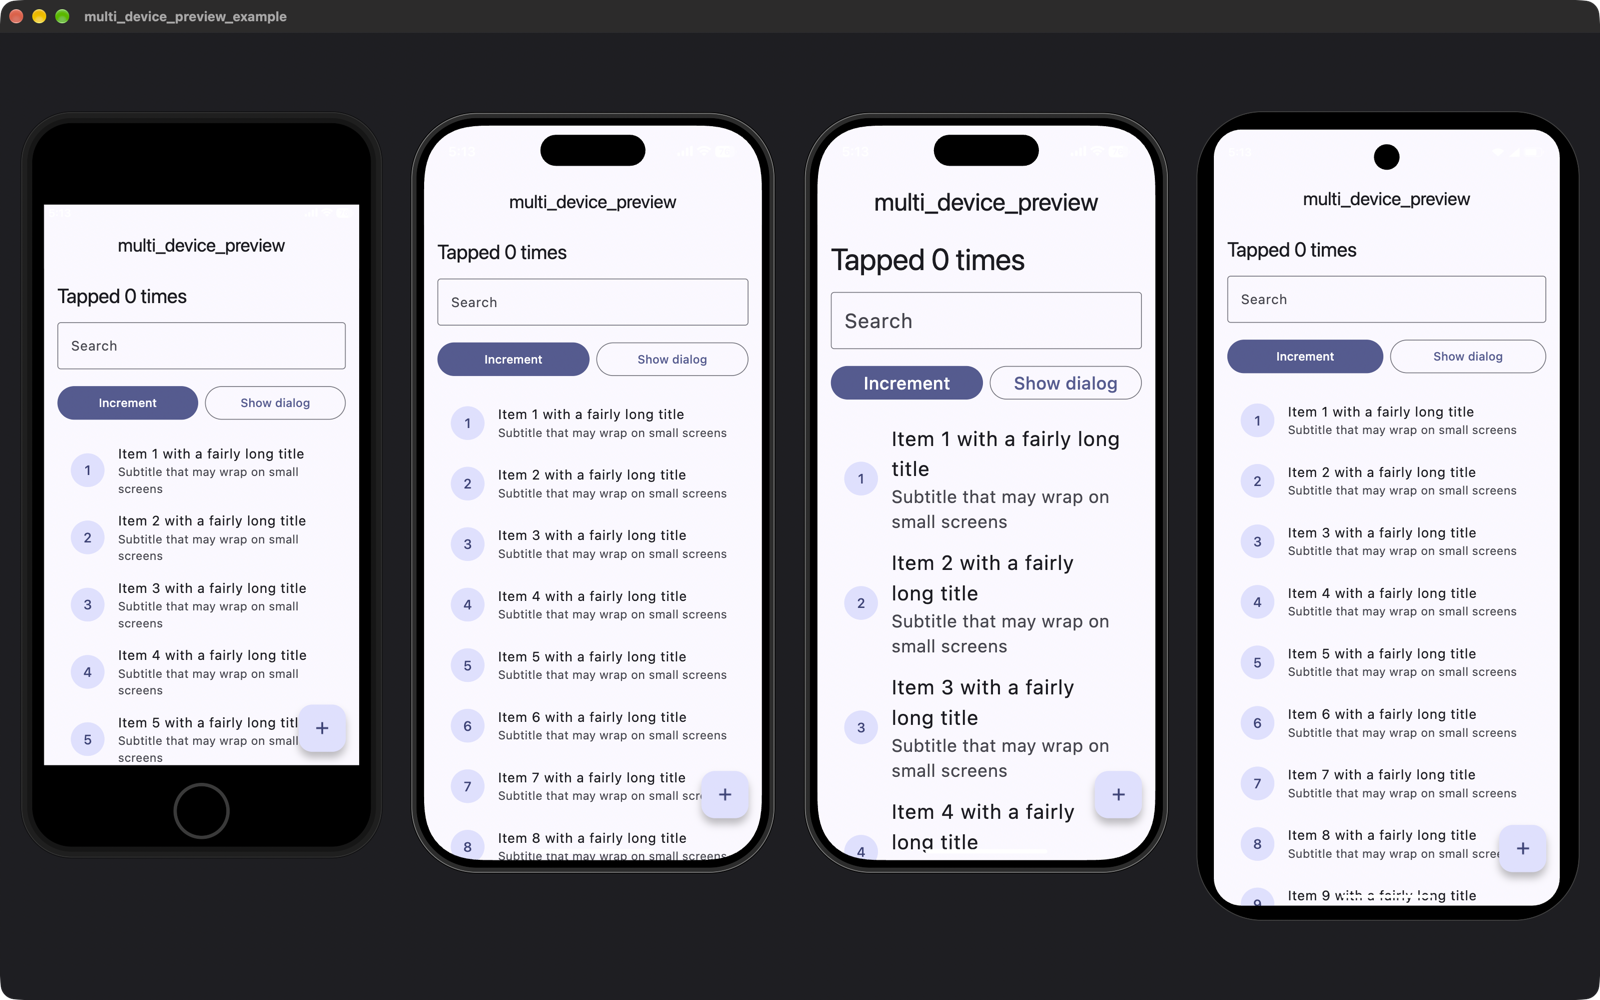
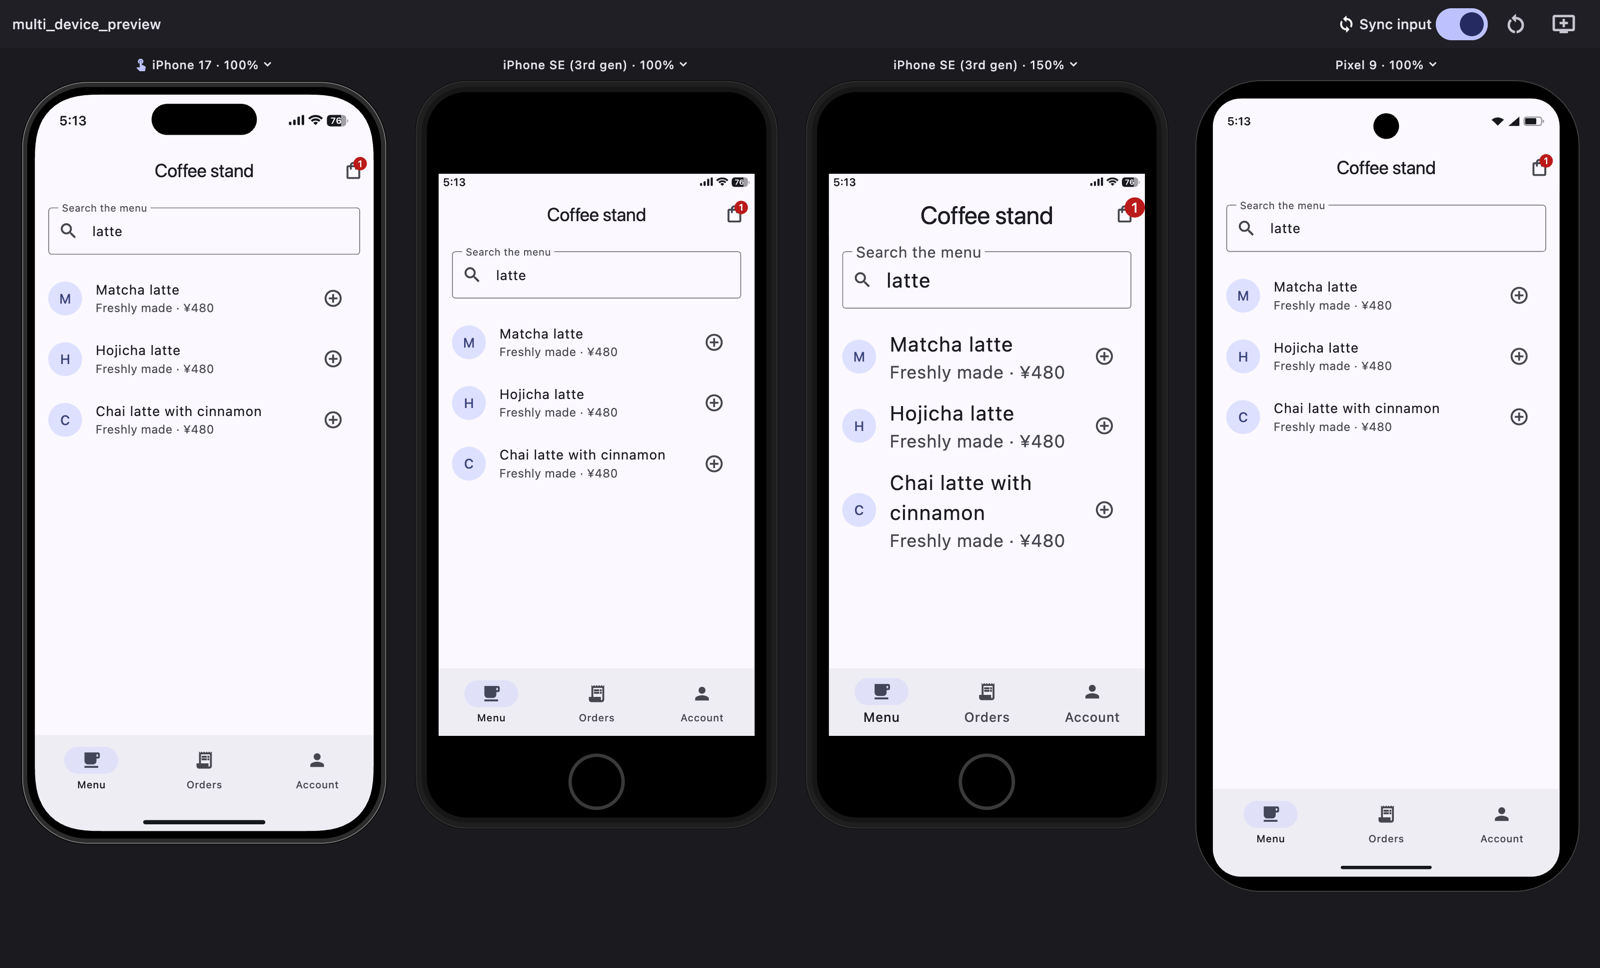
feat: list phones first in the device sheet; refresh screenshot; smoke test captures the tool UI

diff --git a/packages/multi_device_preview/lib/src/chrome.dart b/packages/multi_device_preview/lib/src/chrome.dart
@@ -398,7 +398,16 @@ class _DeviceSheetState extends State<_DeviceSheet> {
   @override
   Widget build(BuildContext context) {
     final theme = Theme.of(context);
-    final groups = <DeviceKind, List<DevicePreset>>{};
+    // Phones first: they are what most apps are checked on.
+    final groups = <DeviceKind, List<DevicePreset>>{
+      for (final kind in const [
+        DeviceKind.phone,
+        DeviceKind.foldable,
+        DeviceKind.tablet,
+        DeviceKind.desktop,
+      ])
+        kind: [],
+    };
     for (final preset in DevicePresets.all) {
       groups.putIfAbsent(preset.kind, () => []).add(preset);
     }
@@ -456,36 +465,36 @@ class _DeviceSheetState extends State<_DeviceSheet> {
             shrinkWrap: true,
             padding: const EdgeInsets.only(bottom: 16),
             children: [
-              for (final MapEntry(key: kind, value: presets)
-                  in groups.entries) ...[
-                Padding(
-                  padding: const EdgeInsets.fromLTRB(20, 12, 20, 4),
-                  child: Text(
-                    _kindLabel(kind),
-                    style: theme.textTheme.labelLarge?.copyWith(
-                      color: theme.colorScheme.primary,
+              for (final MapEntry(key: kind, value: presets) in groups.entries)
+                if (presets.isNotEmpty) ...[
+                  Padding(
+                    padding: const EdgeInsets.fromLTRB(20, 12, 20, 4),
+                    child: Text(
+                      _kindLabel(kind),
+                      style: theme.textTheme.labelLarge?.copyWith(
+                        color: theme.colorScheme.primary,
+                      ),
                     ),
                   ),
-                ),
-                for (final preset in presets)
-                  ListTile(
-                    key: ChromeKeys.preset(preset.id),
-                    dense: true,
-                    selected: preset.id == selected,
-                    leading: Icon(
-                      preset.id == selected
-                          ? Icons.radio_button_checked
-                          : Icons.radio_button_unchecked,
+                  for (final preset in presets)
+                    ListTile(
+                      key: ChromeKeys.preset(preset.id),
+                      dense: true,
+                      selected: preset.id == selected,
+                      leading: Icon(
+                        preset.id == selected
+                            ? Icons.radio_button_checked
+                            : Icons.radio_button_unchecked,
+                      ),
+                      title: Text(preset.name),
+                      subtitle: Text(
+                        '${preset.portraitSize.width.round()} × '
+                        '${preset.portraitSize.height.round()}'
+                        '${preset.brand == null ? '' : ' · ${preset.brand}'}',
+                      ),
+                      onTap: () => _select(preset),
                     ),
-                    title: Text(preset.name),
-                    subtitle: Text(
-                      '${preset.portraitSize.width.round()} × '
-                      '${preset.portraitSize.height.round()}'
-                      '${preset.brand == null ? '' : ' · ${preset.brand}'}',
-                    ),
-                    onTap: () => _select(preset),
-                  ),
-              ],
+                ],
             ],
           ),
         ),

diff --git a/packages/multi_device_preview/example/smoke/main.dart b/packages/multi_device_preview/example/smoke/main.dart
@@ -3,9 +3,11 @@
 //
 //   flutter run -d macos -t smoke/main.dart --dart-define=OUT=/path/to/dir
 import 'dart:io';
+import 'dart:ui' as ui;
 
 import 'package:flutter/gestures.dart';
 import 'package:flutter/material.dart';
+import 'package:flutter/rendering.dart';
 import 'package:multi_device_preview/multi_device_preview.dart';
 import 'package:multi_device_preview_example/app.dart';
 
@@ -20,8 +22,10 @@ Future<void> main() async {
       PreviewDevice(preset: DevicePresets.pixel9),
     ],
   );
+  final window = GlobalKey();
   runMultiDevicePreview(
     controller: controller,
+    wrapper: (preview) => RepaintBoundary(key: window, child: preview),
     appBuilder: (context, slot) => const ExampleApp(),
   );
   await Directory(_out).create(recursive: true);
@@ -31,6 +35,16 @@ Future<void> main() async {
     await Future<void>.delayed(const Duration(milliseconds: 1500));
     final png = await controller.captureScreenshot(pixelRatio: 1);
     await File('$_out/$name.png').writeAsBytes(png);
+    stdout.writeln('smoke: saved $_out/$name.png');
+  }
+
+  Future<void> shootWindow(String name) async {
+    await Future<void>.delayed(const Duration(milliseconds: 1500));
+    final boundary =
+        window.currentContext!.findRenderObject()! as RenderRepaintBoundary;
+    final image = await boundary.toImage(pixelRatio: 2);
+    final bytes = await image.toByteData(format: ui.ImageByteFormat.png);
+    await File('$_out/$name.png').writeAsBytes(bytes!.buffer.asUint8List());
     stdout.writeln('smoke: saved $_out/$name.png');
   }
 
@@ -103,6 +117,20 @@ Future<void> main() async {
     SelectionChangedCause.keyboard,
   );
   await shoot('2-search');
+  await shootWindow('3-window');
+
+  // Open the settings sheet of the third device (tool UI, not mirrored).
+  Element? label;
+  void findLabel(Element e) {
+    if (e.widget.key == const ValueKey('multi_device_preview.label.2')) {
+      label = e;
+    }
+    if (label == null) e.visitChildElements(findLabel);
+  }
+
+  WidgetsBinding.instance.rootElement!.visitChildElements(findLabel);
+  await tap(label!);
+  await shootWindow('4-sheet');
 
   exit(0);
 }
